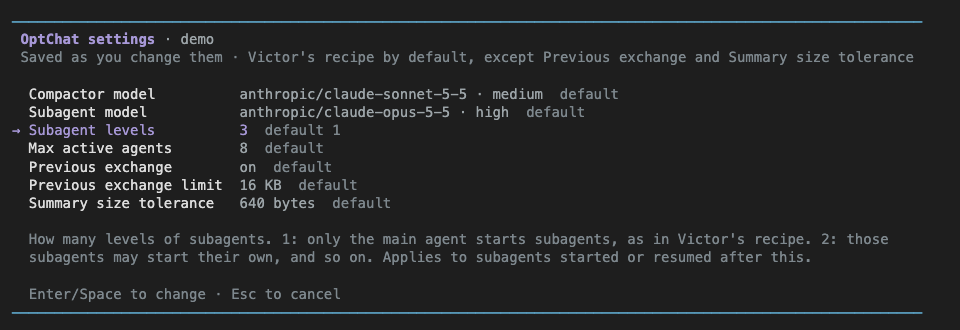
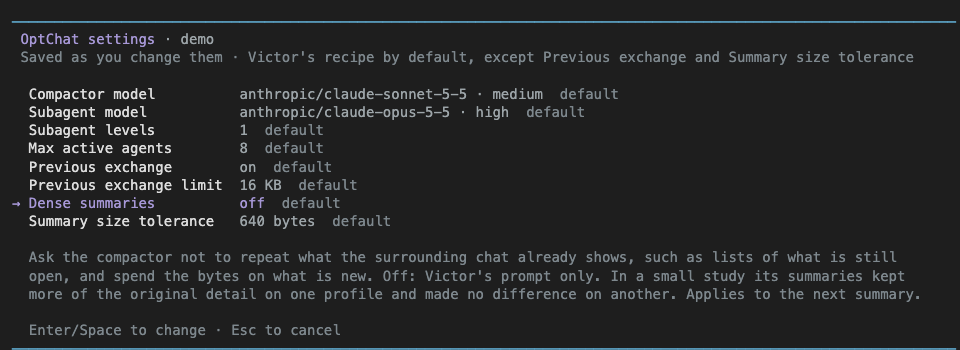
Add an opt-in Dense summaries setting that stops the compactor repeating what the chat already shows

Changed region(s): [[0.0, 0.697, 1.0, 1.0], [0.0, 0.2424, 0.6562, 0.6667], [0.0, 0.0606, 1.0, 0.2121]]

diff --git a/src/compactor.ts b/src/compactor.ts
@@ -5,11 +5,13 @@ import { COMPACT } from './prompts.ts';
 import { bytes, NODE, type Compressor } from './memory.ts';
 import { cachePayload, splitView } from './cache.ts';
 import { IMPORT_GUIDANCE } from './import/guidance.ts';
-import { DEFAULT_SETTINGS } from './settings.ts';
+import { DEFAULT_SETTINGS, type Settings } from './settings.ts';
 
 export interface ModelChoice { provider: string; model: string; thinking: ThinkingLevel }
 /** A realistic summary line of exactly NODE bytes, on a topic no real chat shares so its wording can't leak into summaries. */
 export const SCALE = 'user: Plan the Lisbon trip for 14-18 May: four adults, one in a wheelchair, 2400 EUR budget, no flights before 09:00. talk: Suggested Baixa; skip tram 28 (not step-free). tool: searched TAP, easyJet fares; echo: TAP TP1205 at 08:40 (too early), easyJet U27652 at 11:15 is 162 EUR each. user: "Book easyJet; step-free rooms matter more than a view." work: [4c1e9a20] Casa do Rio has two step-free rooms at 138 EUR/night, free cancellation to 10 May, held to 2 May. talk: Asked about a Sintra day trip, unanswered.';
+/** Added to each request when Dense summaries is on; COMPACT itself stays the recipe's. */
+export const DENSE = 'Don\'t repeat state the surrounding chat already shows, such as a list of what is still open or the request that started a chain of tool calls: point to it in a few words at most and spend the bytes on what is new in your stretch.';
 const WARM_MS = 4 * 60_000; // Anthropic's short cache lives 5 minutes from its last use.
 
 /** Parallel calls can't read a cache entry that isn't written yet, so one call primes a cold prefix and the rest wait until it answers. */
@@ -37,15 +39,17 @@ function primeFirst() {
     };
   };
 }
-/** The model is asked for 512 bytes; `accepted` is the longest line kept without a retry (the profile's summary size tolerance). */
+/** The model is asked for 512 bytes; the profile's summary size tolerance is the longest line kept without a retry. */
 export function createCompressor(registry: ModelRegistry, choice: () => ModelChoice,
-  onUsage: (message: AssistantMessage) => void = () => {}, accepted = () => DEFAULT_SETTINGS.summaryAcceptBytes): Compressor {
+  onUsage: (message: AssistantMessage) => void = () => {},
+  settings: () => Pick<Settings, 'summaryAcceptBytes' | 'denseSummaries'> = () => DEFAULT_SETTINGS): Compressor {
   const gate = primeFirst();
   return async (input, signal) => {
     const selected = choice();
     const model = registry.find(selected.provider, selected.model);
     if (!model) throw new Error(`Compactor model unavailable: ${selected.provider}/${selected.model}. Use /optchat model.`);
-    const step = `${input.historical ? IMPORT_GUIDANCE + '\n\n' : ''}For scale, this line is exactly 512 bytes:\n${SCALE}\n\n${input.merge ? 'Merge these two lines into one' : 'Compress this message into one line'}, in at most 512 bytes:\n${input.source}`;
+    const { summaryAcceptBytes, denseSummaries } = settings();
+    const step = `${input.historical ? IMPORT_GUIDANCE + '\n\n' : ''}${denseSummaries ? DENSE + '\n\n' : ''}For scale, this line is exactly 512 bytes:\n${SCALE}\n\n${input.merge ? 'Merge these two lines into one' : 'Compress this message into one line'}, in at most 512 bytes:\n${input.source}`;
     const messages: Message[] = [{ role: 'user', content: [{ type: 'text', text: input.context }, { type: 'text', text: step }], timestamp: Date.now() }];
     const view = splitView(input.context);
     const prefix = model.api === 'anthropic-messages' && view.length > 1 ? `${model.provider}/${model.id}/${selected.thinking}\n${view.slice(0, -1).join('')}` : undefined;
@@ -68,7 +72,7 @@ export function createCompressor(registry: ModelRegistry, choice: () => ModelCho
       if (!line) throw new Error('Compactor returned no text.');
       tries.push(line);
       // A merge of two short lines can come back nearly as big as both, so a line must also shrink what it replaces.
-      if (bytes(line) <= accepted() && bytes(line) < bytes(input.source)) break;
+      if (bytes(line) <= summaryAcceptBytes && bytes(line) < bytes(input.source)) break;
       messages.push(reply);
       const cut = Buffer.from(line).subarray(0, NODE).toString('utf8').replace(/\uFFFD$/, '');
       messages.push({ role: 'user', content: `That line is ${bytes(line)} bytes; the limit is 512. It must end where it is cut here:\n${cut}| ← LIMIT`, timestamp: Date.now() });

diff --git a/test/compactor-size.test.ts b/test/compactor-size.test.ts
@@ -5,19 +5,22 @@ import { tmpdir } from 'node:os';
 import { join } from 'node:path';
 import { createAssistantMessageEventStream, type AssistantMessage } from '@earendil-works/pi-ai';
 import { ModelRegistry, ModelRuntime } from '@earendil-works/pi-coding-agent';
-import { createCompressor, SCALE } from '../src/compactor.ts';
+import { createCompressor, DENSE, SCALE } from '../src/compactor.ts';
+import { DEFAULT_SETTINGS } from '../src/settings.ts';
 import { bytes, NODE } from '../src/memory.ts';
 import { emptyUsage } from '../src/usage.ts';
 
+let lastRequest = '';
 /** A fake model whose first reply is `first` bytes long and whose retries fit. */
-async function attempts(first: number, { source = 'user: ' + 'a long message '.repeat(70), merge = false, accepted }: { source?: string; merge?: boolean; accepted?: number } = {}) {
+async function attempts(first: number, { source = 'user: ' + 'a long message '.repeat(70), merge = false, accepted = DEFAULT_SETTINGS.summaryAcceptBytes, dense = false } = {}) {
   const dir = mkdtempSync(join(tmpdir(), 'optchat-size-'));
   const runtime = await ModelRuntime.create({ authPath: join(dir, 'auth.json'), modelsPath: null, modelsStorePath: join(dir, 'models.json'), refreshOnCreate: false });
   let calls = 0;
   runtime.registerProvider('optchat-test', {
     baseUrl: 'https://invalid.local', apiKey: 'synthetic', api: 'openai-completions',
     models: [{ id: 'compactor', name: 'Synthetic compactor', reasoning: false, input: ['text'], cost: { input: 0, output: 0, cacheRead: 0, cacheWrite: 0 }, contextWindow: 100000, maxTokens: 1000 }],
-    streamSimple(model) {
+    streamSimple(model, context) {
+      lastRequest = JSON.stringify(context.messages);
       const stream = createAssistantMessageEventStream();
       const message: AssistantMessage = { role: 'assistant', content: [{ type: 'text', text: 'x'.repeat(calls++ ? 400 : first) }], api: model.api,
         provider: model.provider, model: model.id, timestamp: Date.now(), stopReason: 'stop', usage: emptyUsage() };
@@ -27,7 +30,7 @@ async function attempts(first: number, { source = 'user: ' + 'a long message '.r
   });
   try {
     const compress = createCompressor(new ModelRegistry(runtime), () => ({ provider: 'optchat-test', model: 'compactor', thinking: 'off' }), undefined,
-      accepted === undefined ? undefined : () => accepted);
+      () => ({ summaryAcceptBytes: accepted, denseSummaries: dense }));
     const line = await compress({ context: '<chat>\n</chat>', source, merge }, new AbortController().signal);
     return { calls, bytes: line.length };
   } finally { rmSync(dir, { recursive: true, force: true }); }
@@ -41,6 +44,13 @@ test('a summary up to 640 bytes is kept; one over 640 is retried', async () => {
 test('the profile\'s summary size tolerance decides when a line is retried', async () => {
   assert.deepEqual(await attempts(513, { accepted: 512 }), { calls: 2, bytes: 400 }, '512 is Victor\'s strict rule');
   assert.deepEqual(await attempts(700, { accepted: 700 }), { calls: 1, bytes: 700 });
+});
+
+test('Dense summaries adds its note to the request only when on', async () => {
+  await attempts(400);
+  assert.ok(!lastRequest.includes(DENSE), 'off by default: the recipe\'s request');
+  await attempts(400, { dense: true });
+  assert.ok(lastRequest.includes(JSON.stringify(DENSE + '\n\nFor scale').slice(1, -1)));
 });
 
 test('a merge that is not smaller than the two lines it replaces is retried', async () => {

diff --git a/src/index.ts b/src/index.ts
@@ -145,7 +145,7 @@ export default function optchat(pi: ExtensionAPI) {
       const memory = new Memory(memoryDirectory(dir), createCompressor(ctx.modelRegistry, () => config.compactor, message => {
         usage.compression(message, 'compactor', sessionId);
         status(ctx);
-      }, () => config.summaryAcceptBytes), warning => ctx.ui.notify(warning, 'error'));
+      }, () => config), warning => ctx.ui.notify(warning, 'error'));
       openingMemory = memory;
       const inbox = new Inbox(dir);
       const recovered = pendingImport(dir) ? 0 : inbox.recover(memory);
@@ -400,7 +400,7 @@ export default function optchat(pi: ExtensionAPI) {
         if (!closed) { await a.memory.close(); closed = true; }
         const compress = createCompressor(ctx.modelRegistry, () => a.config.compactor, message => {
           a.usage.compression(message, 'import', ctx.sessionManager.getSessionId());
-        }, () => a.config.summaryAcceptBytes);
+        }, () => a.config);
         const completed = await showProgress(ctx, job, (signal, progress) => runImport(a.dir, compress, signal, progress), signal);
         ctx.ui.notify(completed ? `Imported ${job.added} messages into ${a.name}. Previous memory retained at ${job.previous === '.' ? a.dir : join(a.dir, job.previous)}.`
           : 'Import paused. Use /optchat import to resume. Other profiles remain available.', 'info');

diff --git a/src/settings.ts b/src/settings.ts
@@ -14,6 +14,9 @@ export const SETTINGS = {
   previousExchangeKB: { kind: 'number', label: 'Previous exchange limit', default: 16, min: 1, unit: 'KB',
     description: 'A larger last exchange, usually a big paste, is left out and the model zooms into memory instead.',
     applies: 'Applies from the next turn.' },
+  denseSummaries: { kind: 'toggle', label: 'Dense summaries', default: false,
+    description: 'Ask the compactor not to repeat what the surrounding chat already shows, such as lists of what is still open, and spend the bytes on what is new. Off: Victor\'s prompt only. In a small study its summaries kept more of the original detail on one profile and made no difference on another.',
+    applies: 'Applies to the next summary.' },
   summaryAcceptBytes: { kind: 'number', label: 'Summary size tolerance', default: NODE * 1.25, min: NODE, unit: 'bytes',
     description: `The compactor is always asked for ${NODE}-byte lines; a longer line up to this size is kept instead of retried. ${NODE}: strict, as in Victor's recipe. The default saves retries for a little more view space.`,
     applies: 'Applies to the next summary.' },

diff --git a/test/settings.test.ts b/test/settings.test.ts
@@ -56,7 +56,7 @@ test('a config.json from before settings existed loads with the defaults, and se
   const dir = mkdtempSync(join(tmpdir(), 'optchat-config-'));
   try {
     writeFileSync(join(dir, 'config.json'), JSON.stringify({ compactor: defaults.compactor, subagent: defaults.subagent }));
-    assert.deepEqual(loadConfig(dir), { ...defaults, subagentLevels: 1, maxAgents: 8, previousExchange: true, previousExchangeKB: 16, summaryAcceptBytes: 640 });
+    assert.deepEqual(loadConfig(dir), { ...defaults, subagentLevels: 1, maxAgents: 8, previousExchange: true, previousExchangeKB: 16, denseSummaries: false, summaryAcceptBytes: 640 });
     const changed = { ...loadConfig(dir), subagentLevels: 3, maxAgents: 12, previousExchange: false, previousExchangeKB: 4, summaryAcceptBytes: 512 };
     saveConfig(dir, changed);
     assert.deepEqual(loadConfig(dir), changed);

diff --git a/README.md b/README.md
@@ -43,7 +43,7 @@ For headless use, pass `--optchat-profile work`.
 | --- | --- |
 | `/optchat` | Status and actions menu. |
 | `/optchat profile` | Select or create a profile. Switching starts a fresh Pi session. |
-| `/optchat settings` | This profile's settings: models, subagent levels and limits, previous exchange, summary size tolerance. |
+| `/optchat settings` | This profile's settings: models, subagent levels and limits, previous exchange, dense summaries, summary size tolerance. |
 | `/optchat model` | Compactor model and effort for this profile. |
 | `/optchat agents` | Live agent tree and saved run history. |
 | `/optchat agents model` | Subagent model and effort for this profile. |
@@ -78,6 +78,7 @@ Compression and subagents make extra model requests with your provider credentia
 | Max active agents | 8 | Subagents running at once in the profile, all levels together, so it also caps how deep a chain can go. |
 | Previous exchange | on | Replays your last request and answer in full with the next turn (see below). Off is the recipe. |
 | Previous exchange limit | 16 KB | A larger last exchange is left out. |
+| Dense summaries | off | Adds one sentence to each compactor request: don't repeat what the surrounding chat already shows (such as lists of what is still open), spend the bytes on what is new. Off is the recipe. In a small blind-graded study, summaries of a personal chat kept clearly more detail (75 vs 62 of 100 points); on a work chat it made no difference. |
 | Summary size tolerance | 640 bytes | The compactor is always asked for 512-byte lines; a longer line up to this size is kept instead of retried. 512 is the recipe's strict rule. |
 
 Numbers must be whole numbers of at least 1 (512 for the summary size tolerance). Missing keys in an older `config.json` take their defaults.
